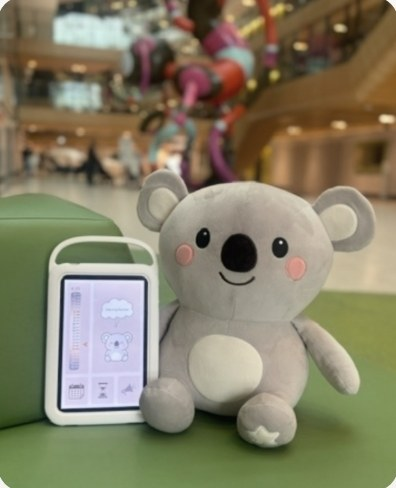
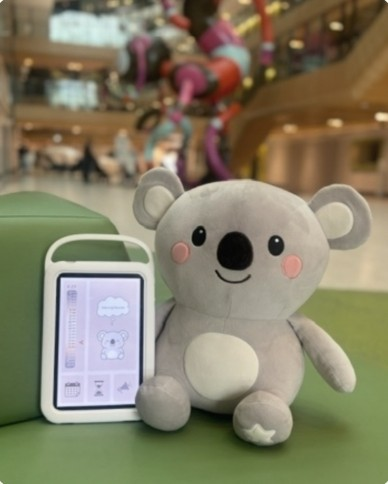
Hospital page on mimbalu.com's layout with Schoolbell headings
Full-width photo, split hero with the device photo, full-width bedside
photo, and a centred closing section with the hospital photo, using the
founder's own photos saved into site/assets.

Claude-Session: https://claude.ai/code/session_01NrotpGbR91dLWFAh8EP5bp

diff --git a/site/index.html b/site/index.html
@@ -15,7 +15,7 @@
   <meta property="og:url" content="https://www.mimbuddy.com.au/">
   <meta property="og:title" content="MimBuddy — Neurodivergent support for hospitals">
   <meta property="og:description" content="From the ED, admission, to home.">
-  <meta property="og:image" content="https://www.mimbuddy.com.au/assets/hospital-kiki.jpg">
+  <meta property="og:image" content="https://www.mimbuddy.com.au/assets/coffee-table.jpg">
   <meta name="twitter:card" content="summary_large_image">
   <link rel="preconnect" href="https://fonts.googleapis.com">
   <link rel="preconnect" href="https://fonts.gstatic.com" crossorigin>
@@ -38,6 +38,8 @@
   </header>
 
   <main>
+    <div class="full-photo full-photo-top"><img src="/assets/coffee-table.jpg" alt="The MimBuddy on a coffee table, its screen showing Kiki the Koala" width="1500" height="649" fetchpriority="high"></div>
+
     <section class="hero" aria-labelledby="hero-heading">
       <div>
         <h1 id="hero-heading"><em>Neurodivergent</em> support for hospitals</h1>
@@ -45,7 +47,7 @@
         <a href="/contact" class="pill pill-big">Book a 10-min call →</a>
       </div>
       <div class="hero-photo">
-        <img src="/assets/hospital-kiki.jpg" alt="The MimBuddy beside a Kiki the Koala plush on a bench in a children's hospital" width="396" height="488" fetchpriority="high">
+        <img src="/assets/device-tree.jpg" alt="The MimBuddy on a white table beside an armchair" width="670" height="670" loading="lazy">
       </div>
     </section>
 
@@ -77,6 +79,8 @@
       </div>
     </section>
 
+    <div class="full-photo"><img src="/assets/bedside-wide.jpg" alt="The MimBuddy on a bedside table, its screen showing Kiki the Koala resting" width="1517" height="659" loading="lazy"></div>
+
     <section class="band" aria-labelledby="how-heading">
       <div class="wrap">
         <h2 id="how-heading" class="h2">How it <em>works</em></h2>
@@ -101,10 +105,11 @@
       </div>
     </section>
 
-    <section class="band band-beige center mission" aria-labelledby="mission-heading">
+    <section class="band center mission" aria-labelledby="mission-heading">
       <div class="narrow">
-        <h2 id="mission-heading">Support for every neurodivergent patient, in every healthcare setting, across Australia and New Zealand.</h2>
+        <h2 id="mission-heading">Support for every <em>neurodivergent</em> patient, in every healthcare setting, across Australia and New Zealand.</h2>
         <p class="lead">Neurodivergent patients deserve access to healthcare. The people caring for them deserve the tools to support them.</p>
+        <figure class="center-photo"><img src="/assets/hospital-kiki.jpg" alt="The MimBuddy beside a Kiki the Koala plush on a bench in a children's hospital" width="388" height="484"></figure>
         <a href="/contact" class="pill pill-big">Book a 10-min call →</a>
       </div>
     </section>

diff --git a/site/mimbalu.css b/site/mimbalu.css
@@ -59,12 +59,12 @@ ul, ol { list-style: none; margin: 0; padding: 0; }
 .center .lead { margin: 0 auto; }
 
 /* Hero */
-.hero { display: grid; grid-template-columns: 1.1fr .9fr; gap: clamp(40px, 5vw, 72px); align-items: center;
-  padding: clamp(56px, 6vw, 80px) var(--gutter) clamp(72px, 7vw, 100px); max-width: 1440px; margin: 0 auto; }
-.hero h1 { font-size: clamp(44px, 5vw, 72px); line-height: 1.12; margin-bottom: 24px; }
+.hero { display: grid; grid-template-columns: 1fr 1fr; gap: clamp(40px, 6vw, 96px); align-items: center;
+  padding: clamp(64px, 7vw, 110px) var(--gutter); max-width: 1440px; margin: 0 auto; }
+.hero h1 { font-size: clamp(42px, 4.4vw, 64px); line-height: 1.15; margin-bottom: 22px; }
 .hero .lead { margin-bottom: 36px; }
 .hero-photo { border-radius: 28px; overflow: hidden; box-shadow: 0 30px 60px -36px rgba(75, 97, 72, .6); }
-.hero-photo img { width: 100%; aspect-ratio: 7 / 8; object-fit: cover; }
+.hero-photo img { width: 100%; aspect-ratio: 1; object-fit: cover; }
 @media (max-width: 860px) { .hero { grid-template-columns: 1fr; } .hero-photo img { aspect-ratio: 4 / 3; } }
 
 /* What's inside */
@@ -109,3 +109,12 @@ ul, ol { list-style: none; margin: 0; padding: 0; }
 .foot nav a:hover { color: var(--dark); }
 .foot-email { color: var(--dark); }
 .copy { max-width: 1120px; margin: 32px auto 0; font-size: 13px; color: var(--mid); }
+
+/* Full-width photos, as on mimbalu.com */
+.full-photo img { width: 100%; max-height: 82vh; object-fit: cover; }
+.full-photo-top img { max-height: 78vh; }
+
+/* Centred section with a rounded photo */
+.mission .lead { margin-bottom: 40px; }
+.center-photo { margin: 0 auto 40px; max-width: 360px; }
+.center-photo img { width: 100%; border-radius: 24px; box-shadow: 0 26px 60px -32px rgba(75, 97, 72, .5); }
